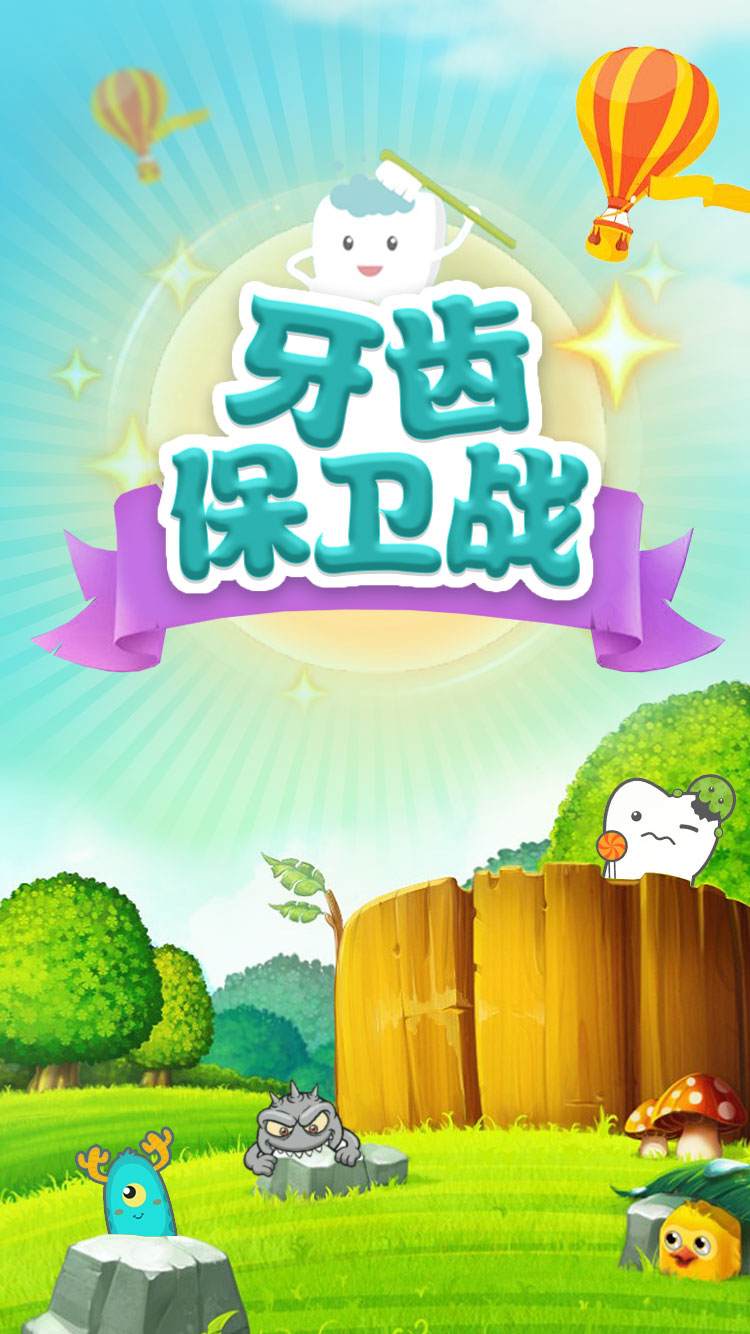
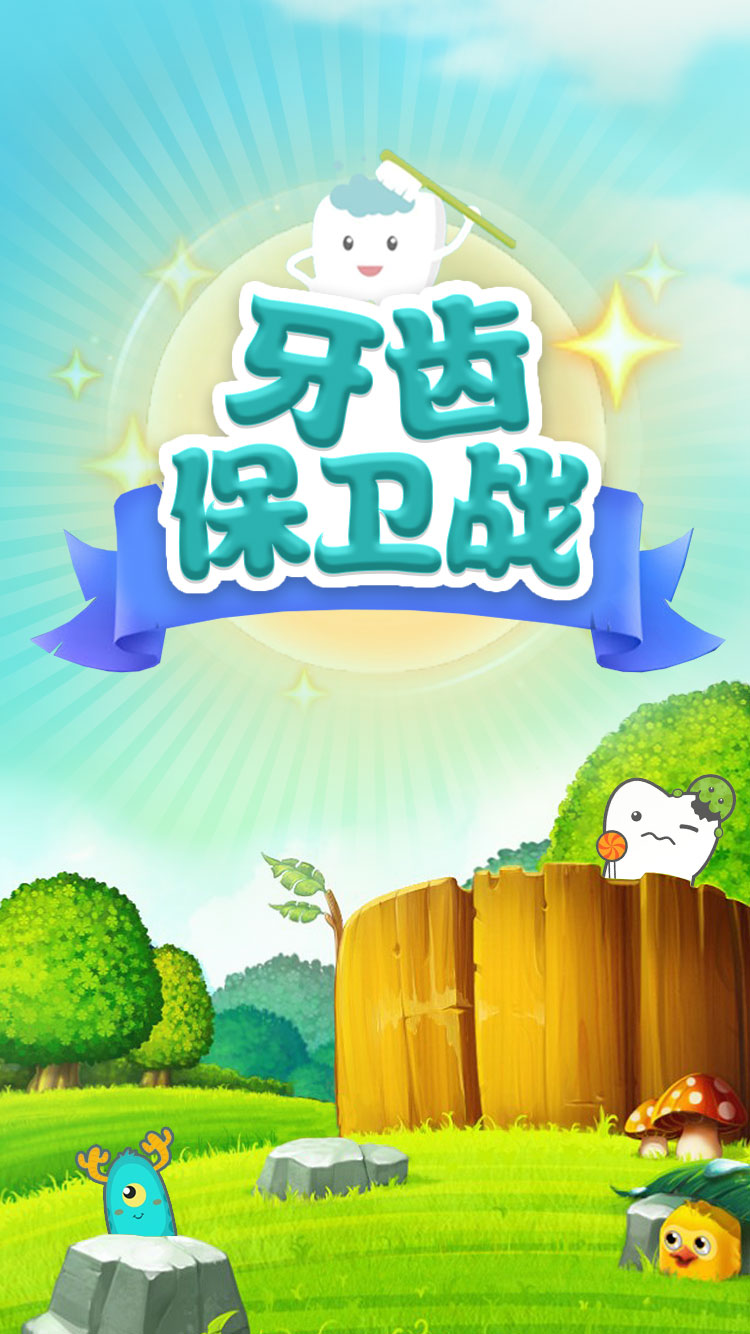
v2.0

diff --git a/css/index.css b/css/index.css
@@ -32,17 +32,19 @@ body{
   width: 7.5rem;
   height: 100%;
   background: #64d8ea url(../img/beginBg.jpg) no-repeat top center;
-  background-size: 100% 100%;
+  background-size: 100% 13.34rem;
   position: relative;
+  overflow: hidden;
 }
 .beginBtn {  
   width: 3.55rem;
   height: 1.48rem;
   position: absolute;
   left: 26.7%;
-  top:6.84rem;
+  top:7.98rem;
+  animation: btnScale 1s ease-in-out infinite
 }
-.rule, .tool {
+.rule, .tool, .rank {
   display: none;
   background: rgba(0,0,0, 0.5);
   height: 100%;
@@ -50,12 +52,29 @@ body{
   z-index: 9998;
 }
 .ruleBtn {
-  width: 1.42rem;
-  height: 1.46rem;
   position: absolute;
-  right: .38rem;
-  top: .42rem;
+  width: 1.78rem;
+  height: 0.63rem;  
+  left: 2.4rem;
+  top: .41rem;
   z-index: 9997;
+  font-size: 0
+}
+.rankBtn {
+  position: absolute;
+  width: 1.78rem;
+  height: 0.63rem;  
+  left: .40rem;
+  top: .41rem;
+  z-index: 9997;
+  font-size: 0
+}
+.closeRank {
+  width: 3.54rem;
+  height: 1.45rem;
+  position: absolute;
+  top: 8.70rem;
+  left: 1.17rem;
 }
 .ruleImg {
   width: 5.88rem;
@@ -63,7 +82,88 @@ body{
   position: absolute;
   top: 1.14rem;
   left: .78rem;
+}
+.rankImg {
+  width: 5.82rem;
+  height: 9.44rem;
+  position: absolute;
+  top: 0.68rem;
+  left: .84rem;
+}
+.rankList {
+  width: 4.14rem;
+  height: 4.07rem;
+  position: absolute;
+  top:4rem;
+  left:0.89rem;
+  overflow-y:scroll;
+  overflow-x: hidden;
+}
+.rankList::-webkit-scrollbar{
+  width: 0rem;
+  background-color: #F5F5F5;
+}
+.rankList::-webkit-scrollbar-thumb {
+  background-color: #F5F5F5;
+}
+.rankList::-webkit-scrollbar-track {
+  -webkit-box-shadow: inset 0 0 6px rgba(0,0,0,0.3);
+  background-color: #fff;
+}
+.rankListItem {
+  overflow: hidden;
+  height: 0.96rem;
+  font-size: 0;
+  position: relative;
+  padding-bottom: 0.14rem;
+  border-bottom: 1px solid #fff;
+  margin-bottom: 0.3rem;
+}
+.userMsg {
+  float: left;
+  color: #fff;
+}
+.userMsg img {
+  width: 0.96rem;
+  height: 0.96rem;
+  border-radius: 50%;  
+  font-size: 0;
+  border: 1px solid #ccc
+}
+.userMsg .userName {
+  position: absolute;
+  top: 0.1rem;
+  left: 1.2rem;
+  width: auto;
+  display: inline-block;
+  word-break: keep-all;
+  font-size: .26rem;
+}
+.userMsg .userScore {
+  position: absolute;
+  left: 1.2rem;
+  bottom: 0.2rem;
+  font-size: .26rem;
+  display: inline-block;
+}
 
+.rankNum {
+  float: right;
+  font-size: .45rem;
+  font-weight: bold;
+  color: #fff;
+  position: absolute;
+  right: 0;
+  top: 0.24rem;
+}
+.rankList .rankListItem:nth-child(1) .rankNum{
+  color: red
+}
+.rankList .rankListItem:nth-child(2) .rankNum{
+  color: yellow
+}
+.rankList .rankListItem:nth-child(3) .rankNum{
+  color: blue
 }
 .closeRule {
   width: 3.54rem;
@@ -89,6 +189,7 @@ body{
 .toolBrush {
   width: 1.63rem;
   height: 1.87rem;
+  animation: zoomIn 1s ease-in-out 1
 }
 .greenTool {
   position: absolute;
@@ -177,8 +278,8 @@ body{
   width: .57rem;
   height: .57rem;
   position: absolute;
-  left: .81rem;
-  top: .93rem;
+  right: 0rem;
+  top: 0.5rem;
   margin-left: -.23rem;
   margin-top: -.23rem;
 }
@@ -368,3 +469,113 @@ body{
       transform: rotate(360deg)
   }
 }
+
+.litterBanner {
+  width: 4.8rem;
+  height: .98rem;
+  position: absolute;
+  top: 6.3rem;
+  left:1.42rem;
+}
+
+@keyframes btnScale {
+  from {
+    transform: scale(1)
+  }
+  50% {
+    transform: scale(1.05)
+  }
+  to {
+    transform: rotate(1)
+  }
+}
+
+.flipInX {
+  -webkit-backface-visibility: visible!important;
+  backface-visibility: visible!important;
+  animation-name: flipInX;
+  animation-duration: 1s;
+  animation-iteration-count:infinite;
+  animation-fill-mode: both;
+}
+
+@keyframes flipInX {
+  0% {
+    transform: perspective(400px) rotateX(20deg);
+    animation-timing-function: ease-in;
+  }
+  50% {
+    transform: perspective(400px) rotateX(-20deg);
+    animation-timing-function: ease-in;
+  }
+  to {
+      transform: perspective(400px) rotateX(20deg)
+  }
+}
+.balloon1 {
+  width: 1.76rem;
+  height: 2.18rem;
+  position: absolute;
+  right: -1.76rem;
+  top: 3.44rem;
+  z-index: 9996;
+  animation: balloon1Move 14s ease-in-out infinite alternate
+}
+.balloon2 {
+  width: 1.25rem;
+  height: 1.23rem;
+  position: absolute;
+  left: 0.96rem;
+  top: 0.68rem;
+  z-index: 9996;
+  animation: balloon2Move 6s ease-in-out infinite alternate
+}
+@keyframes  balloon1Move {
+  0% {
+    transform: translate(-0.16rem,-0rem);
+    animation-timing-function: ease-in;
+  } 
+  to {
+    transform: translate(-1.9rem,-5.5rem);
+    animation-timing-function: ease-out;
+  }
+}
+@keyframes  balloon2Move {
+  0% {
+    transform: translateX(0.4rem)
+  } 
+  to {
+    transform: translateX(-0.4rem)
+  }
+}
+.monsterGif {
+  width: 1.22rem;
+  height: 1.01rem;
+  position: absolute;
+  top: 10.7rem;
+  left: 2.43rem;
+  animation: monsterGifMove 2s ease-in-out infinite alternate
+}
+@keyframes monsterGifMove {
+  0% {
+    transform: translateY(0.1rem)
+  } 
+  50% {
+    transform: translateY(0rem)
+  } 
+  to {
+    transform: translateX(0.25rem)
+  }
+}
+
+@keyframes zoomIn {
+  0% {
+      opacity: 0;
+      transform: scale3d(.3,.3,.3)
+  }
+
+  50% {
+      opacity: 1
+  }
+}
+

diff --git a/index.html b/index.html
@@ -30,22 +30,65 @@
 		</div>
 
 		<section class="pg1 j-pg1" style="display: block">
-			<div class="beginBtn j-beginBtn">
+			<div class="beginBtn  j-beginBtn">
 				<img src="img/beginBtn.png" class="img" alt="">
 			</div>
 			<div class="ruleBtn j-ruleBtn">
-					<img src="img/ruleText.png" class="img" alt="">
+					<img src="img/ruleBtn.png" class="img" alt="">
+			</div>
+			<div class="rankBtn j-rankBtn">
+				<img src="img/rankBtn.png" class="img" alt="">
+			</div>
+			<div class="rank">
+				<div class="rankImg">
+					<img src="img/rankList.png"  class="img">
+					<div class="rankList">
+						<div class="rankListItem">
+							<div class="userMsg">
+								<img src="https://img3.doubanio.com/icon/u160763159-4.jpg">
+								<span class="userName">张三</span>
+								<span class="userScore">29000</span>
+							</div>
+							<div class="rankNum">1</div>
+						</div>
+						<div class="rankListItem">
+							<div class="userMsg">
+								<img src="https://img3.doubanio.com/icon/u160763159-4.jpg">
+								<span class="userName">张三</span>
+								<span class="userScore">29000</span>
+							</div>
+							<div class="rankNum">1</div>
+						</div>
+						<div class="rankListItem">
+								<div class="userMsg">
+									<img src="https://img3.doubanio.com/icon/u160763159-4.jpg">
+									<span class="userName">张三</span>
+									<span class="userScore">29000</span>
+								</div>
+								<div class="rankNum">1</div>
+							</div>
+							<div class="rankListItem">
+								<div class="userMsg">
+									<img src="https://img3.doubanio.com/icon/u160763159-4.jpg">
+									<span class="userName">张三</span>
+									<span class="userScore">29000</span>
+								</div>
+								<div class="rankNum">1</div>
+							</div>
+					</div>
+					<div class="closeRank j-closeRule"><img src="img/closeBtn.png" class="img"></div>
+				</div>
+
 			</div>
 			<div class="rule j-rule">
 				<div class="ruleImg"  >
 					<img src="img/rule.png"  class="img">
 					<div class="closeRule j-closeRule"><img src="img/closeBtn.png" class="img"></div>
-				</div>
-				
+				</div>				
 			</div>
 			<div class="tool j-tool">
 				<div class="toolPoolImg">
-					<img src="img/toolPool.png"  class="img" alt="">
+					<img src="img/toolPool.png"  class="img">
 					<div class="greenTool toolBrush j-toolBrush">
 						<img src="img/greenTool.png"  class="img curTool"  alt="">						
 					</div>
@@ -66,6 +109,18 @@
 					</div>
 				</div>
 
+			</div>
+			<div class="litterBanner flipInX">
+				<img src="img/banner.png" class="img">
+			</div>
+			<div class="balloon1">
+				<img src="img/balloon1.png"  class="img">
+			</div>
+			<div class="monsterGif"">
+				<img src="img/mostergif.png"  class="img">
+			</div>
+			<div class="balloon2">
+				<img src="img/balloon2.png"  class="img">
 			</div>
 		</section>
 		<section class="pg2 j-pg2" style="display: none">			

diff --git a/js/game.js b/js/game.js
@@ -228,13 +228,16 @@ game.prototype = {
     $('.j-ruleBtn').click(function () {
       $('.j-rule').show()
     })
+    $('.j-rankBtn').click(function () {
+      $('.rank').show()
+    })
     $('.j-toolBrush').click(function() {
       $('.j-selectedTool').remove()
       var selectedHtml = '<img src="img/selected.png"  class="img selectedTool j-selectedTool">'
       $(this).append(selectedHtml) 
     })
     $('.j-closeRule').click(function () {
-      $('.j-rule').hide()
+      $('.j-rule, .rank').hide()
     })
     $('.j-sureBtn').click(function () {
       var curTool = $('.j-selectedTool').siblings('.curTool')
